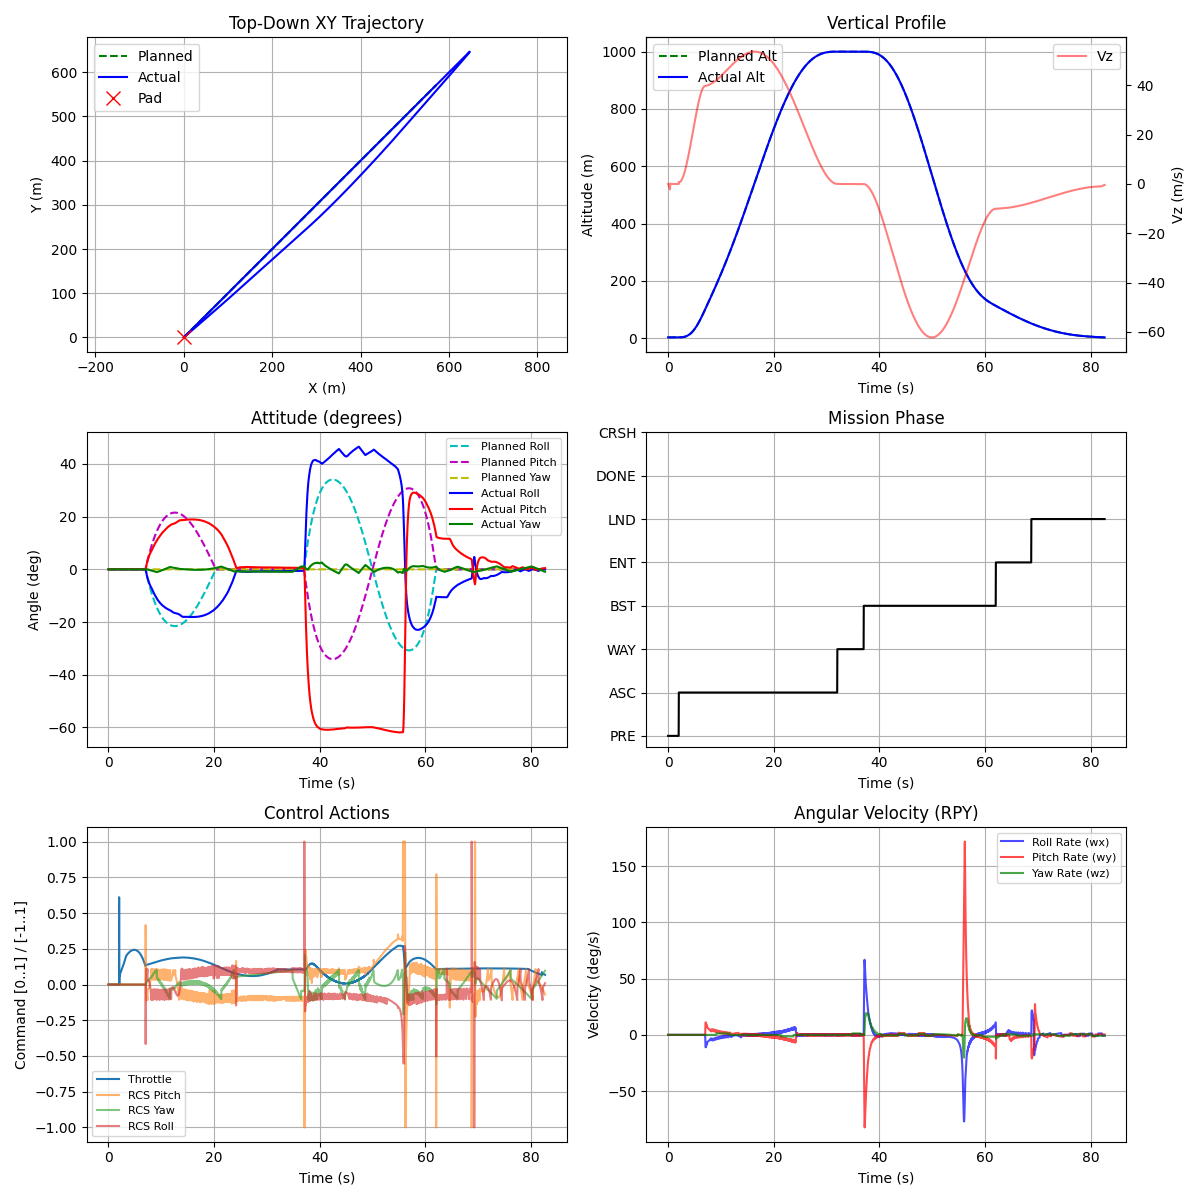
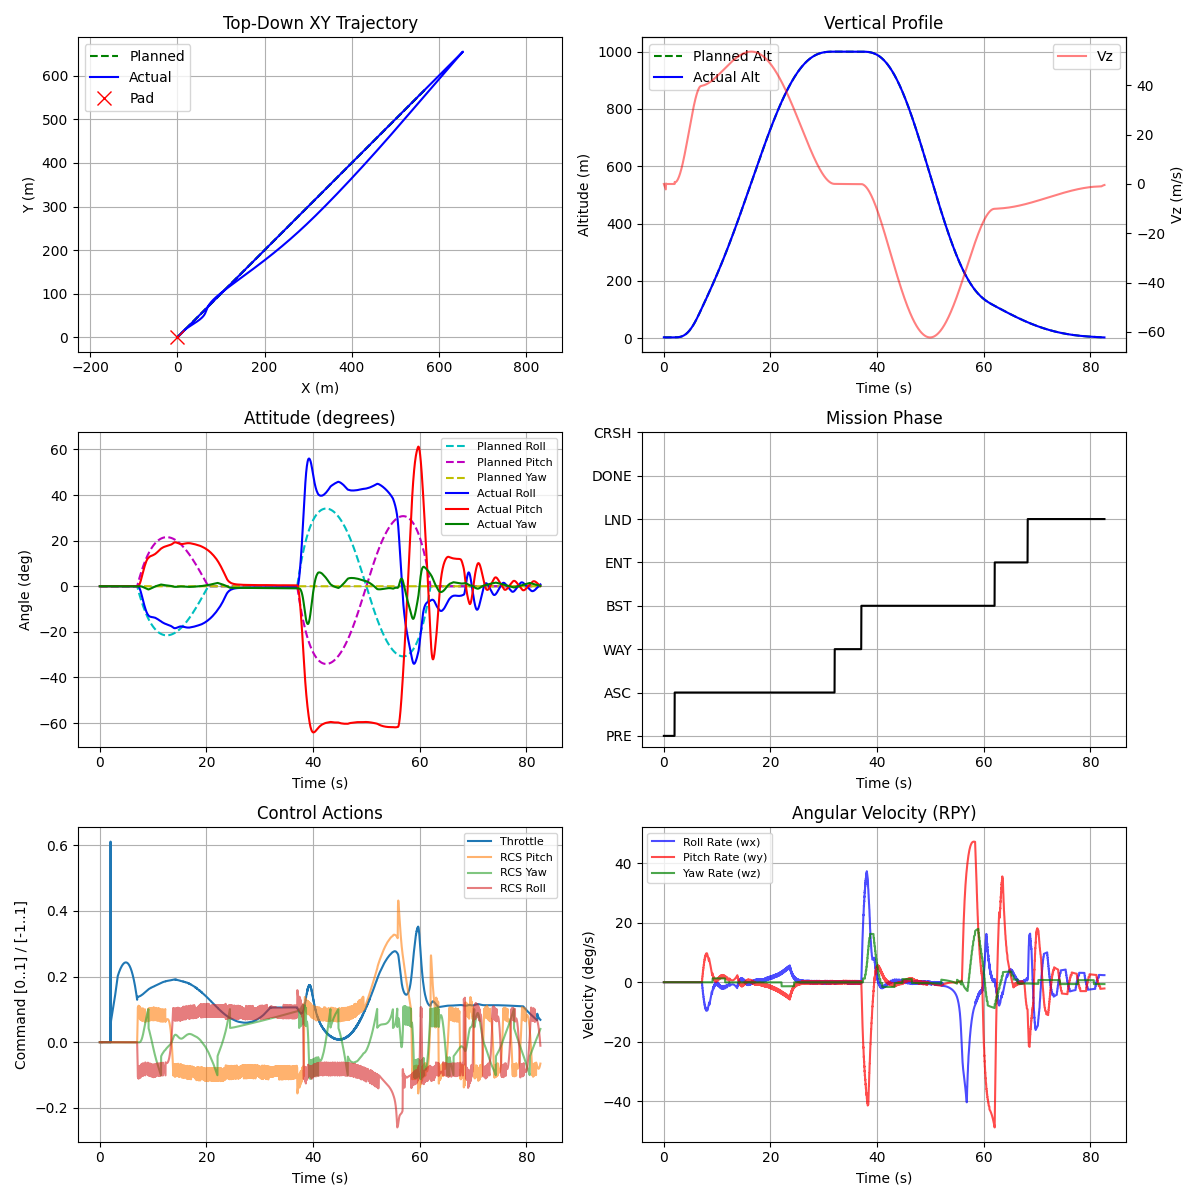
Smooth attitude tracking: implement desired attitude rate limiting and direct body rate feedback damping to prevent jagged steps and high angular velocities

diff --git a/rocketlander/controllers/attitude_controller.py b/rocketlander/controllers/attitude_controller.py
@@ -7,13 +7,19 @@ class AttitudeController:
         self.pitch_pid = PID(kp=4.0, ki=0.2, kd=2.5, dt=dt, limit=1.0)
         self.yaw_pid = PID(kp=4.0, ki=0.2, kd=2.5, dt=dt, limit=1.0)
 
-    def compute(self, roll_err, pitch_err, yaw_err) -> (float, float, float):
+    def compute(self, roll_err, pitch_err, yaw_err, ang_vel=None) -> (float, float, float):
         """
-        Returns u_roll, u_pitch, u_yaw in [-1, 1].
+        Returns r_cmd, p_cmd, y_cmd in [-1, 1].
         Assumes errors are in radians and target - current.
+        If ang_vel [roll_rate, pitch_rate, yaw_rate] is provided, uses direct rate feedback.
         """
-        r_cmd = self.roll_pid.update(roll_err, is_angular=True)
-        p_cmd = self.pitch_pid.update(pitch_err, is_angular=True)
-        y_cmd = self.yaw_pid.update(yaw_err, is_angular=True)
+        if ang_vel is not None:
+            r_cmd = self.roll_pid.update(roll_err, is_angular=True, derivative=-ang_vel[0])
+            p_cmd = self.pitch_pid.update(pitch_err, is_angular=True, derivative=-ang_vel[1])
+            y_cmd = self.yaw_pid.update(yaw_err, is_angular=True, derivative=-ang_vel[2])
+        else:
+            r_cmd = self.roll_pid.update(roll_err, is_angular=True)
+            p_cmd = self.pitch_pid.update(pitch_err, is_angular=True)
+            y_cmd = self.yaw_pid.update(yaw_err, is_angular=True)
 
         return r_cmd, p_cmd, y_cmd

diff --git a/rocketlander/run_rocketlander3d.py b/rocketlander/run_rocketlander3d.py
@@ -73,6 +73,9 @@ def main():
         fourcc = cv2.VideoWriter_fourcc(*'mp4v')
         video_writer = cv2.VideoWriter(args.record, fourcc, 60.0, (640, 480))
 
+    prev_des_r = 0.0
+    prev_des_p = 0.0
+
     try:
         for step in range(args.max_steps):
             if env.render_mode is not None:
@@ -141,13 +144,22 @@ def main():
                 des_p, des_r, _ = hor_ctrl.compute(cmd.pos_error, cmd.vel_error, cmd.desired_acc, state.orn_euler[2], phase)
 
                     
+            # Rate limit the desired attitude commands to prevent high angular velocity and jagged steps
+            # Limit rate of change to 0.8 rad/s (~46 deg/s)
+            max_rate = 0.8  # rad/s
+            max_step = max_rate * dt
+            des_r = max(prev_des_r - max_step, min(prev_des_r + max_step, des_r))
+            des_p = max(prev_des_p - max_step, min(prev_des_p + max_step, des_p))
+            prev_des_r = des_r
+            prev_des_p = des_p
+
             # Scale yaw error by cos(pitch) to compensate for the 1/cos(pitch) Euler rate singularity, keeping yaw stable.
             # Roll and Pitch remain unscaled to preserve perfect symmetry and control authority.
             roll_err = des_r - state.orn_euler[0]
             pitch_err = des_p - state.orn_euler[1]
             yaw_err = (cmd.desired_heading - state.orn_euler[2]) * math.cos(state.orn_euler[1])
             
-            u_roll, u_pitch, u_yaw = att_ctrl.compute(roll_err, pitch_err, yaw_err)
+            u_roll, u_pitch, u_yaw = att_ctrl.compute(roll_err, pitch_err, yaw_err, state.ang_vel)
 
             # Apply tilt compensation to throttle so rocket doesn't lose altitude when tilted
             # Approximating cosine of total tilt

diff --git a/rocketlander/controllers/pid.py b/rocketlander/controllers/pid.py
@@ -13,7 +13,7 @@ class PID:
         self.prev_error = 0.0
         self.value = 0.0
 
-    def update(self, error, is_angular=False):
+    def update(self, error, is_angular=False, derivative=None):
         if is_angular:
             # Normalize angular error to [-pi, pi]
             error = (error + math.pi) % (2 * math.pi) - math.pi
@@ -25,7 +25,8 @@ class PID:
             max_int = self.limit / self.ki
             self.integral = max(-max_int, min(max_int, self.integral))
 
-        derivative = (error - self.prev_error) / self.dt
+        if derivative is None:
+            derivative = (error - self.prev_error) / self.dt
 
         p_term = self.kp * error
         i_term = self.ki * self.integral